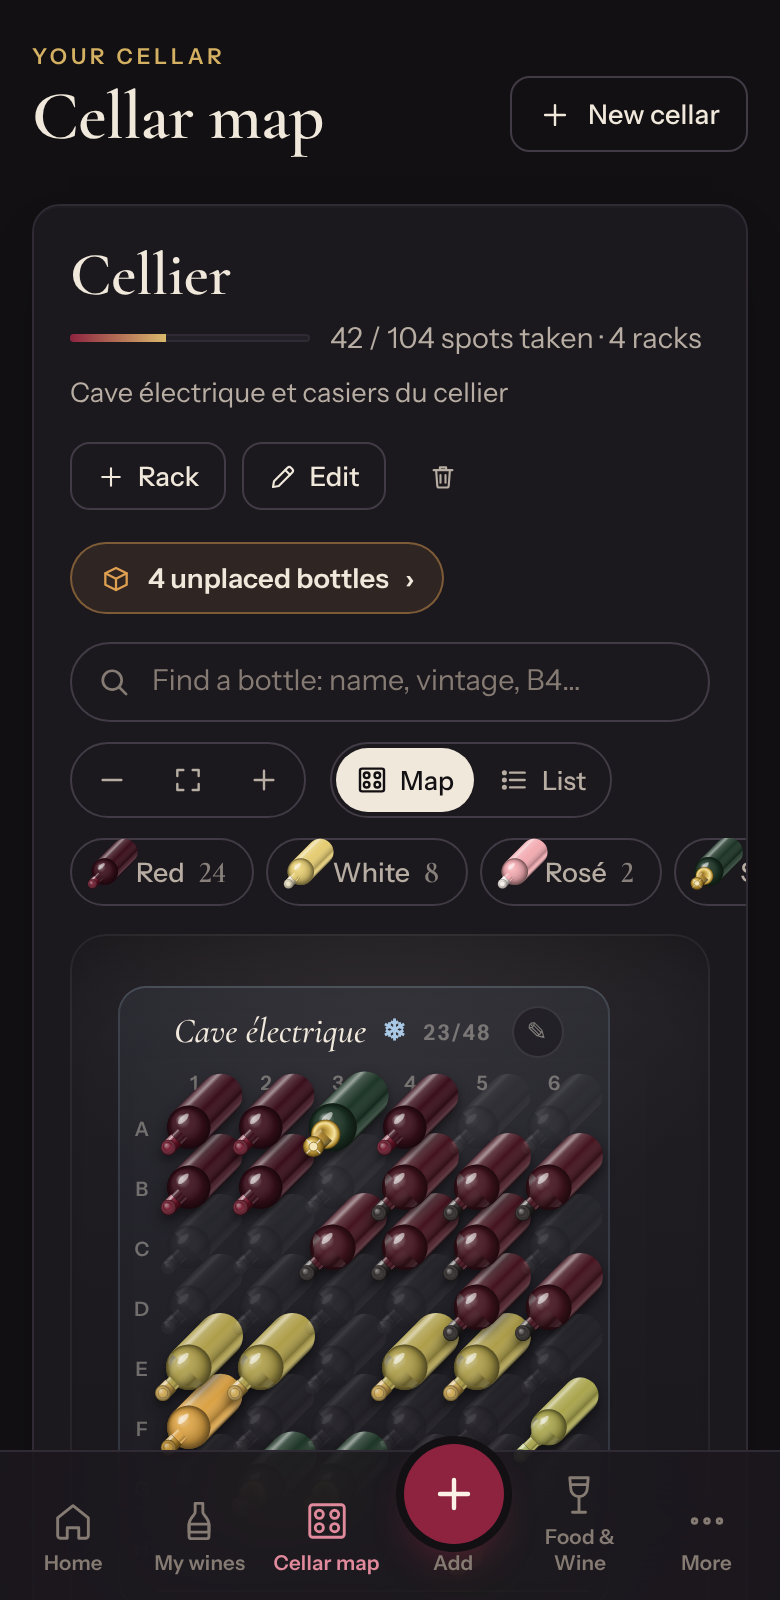
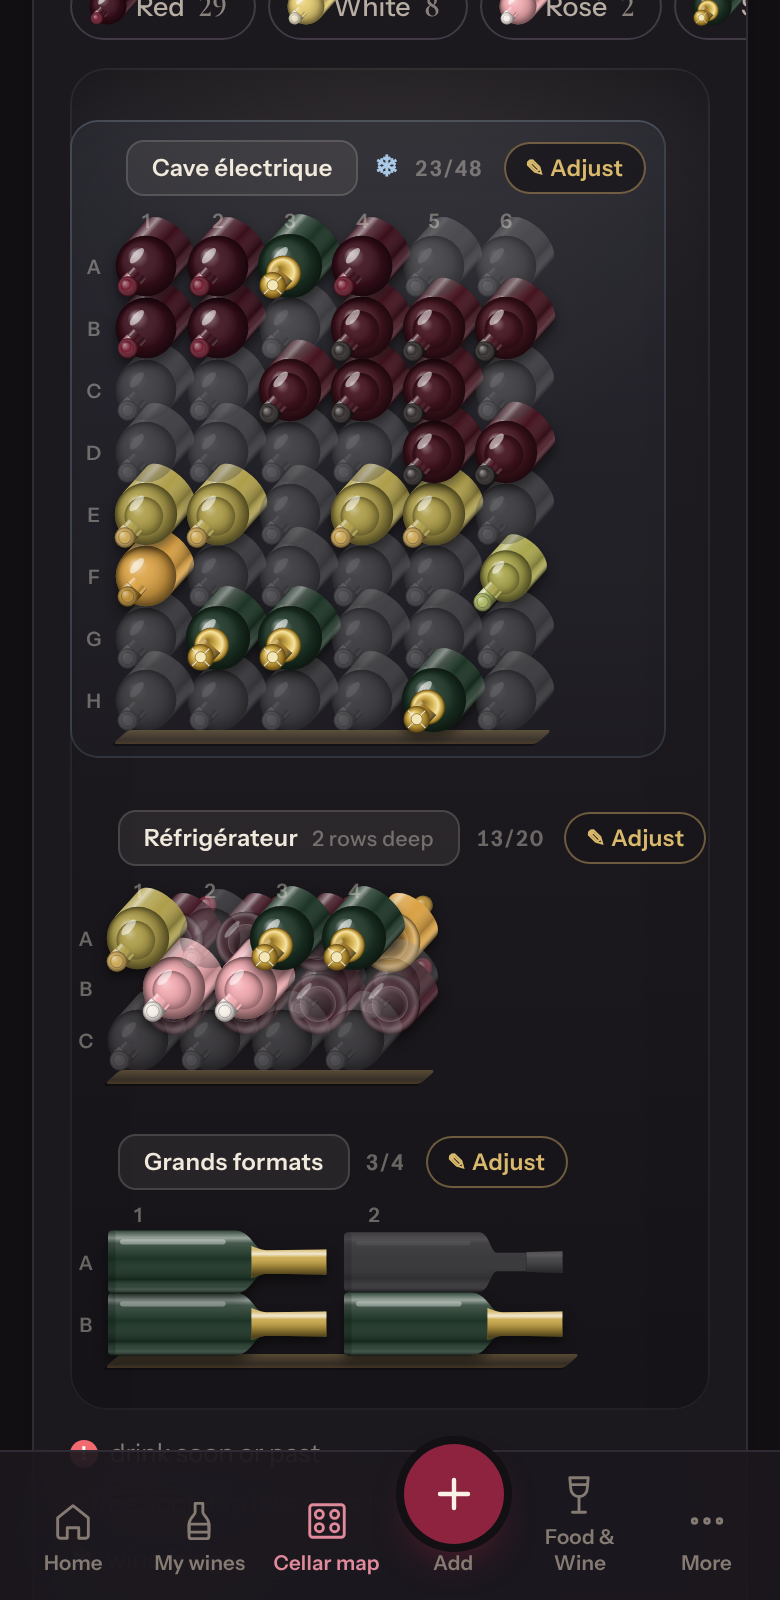
Version 1.14.3 : présentation GitHub/HACS à jour (captures, nouveautés, images visibles dans HACS)
Claude-Session: https://claude.ai/code/session_01T19GpkPTGADRHJXgFDb45S

diff --git a/cave_a_vin/app/__init__.py b/cave_a_vin/app/__init__.py
@@ -1,3 +1,3 @@
 """Cave à vin : gestion de cave compatible Home Assistant."""
 
-__version__ = "1.14.2"
+__version__ = "1.14.3"

diff --git a/README.md b/README.md
@@ -1,8 +1,8 @@
 # Tessvine 🍷
 
-*[English version](README.en.md)*
+*[English version](https://github.com/Tessman404/cave-a-vin/blob/main/README.en.md)*
 
-**➡ Nouveau ? Lisez la [notice rapide](NOTICE.md) : installé et utilisé en 5 minutes.**
+**➡ Nouveau ? Lisez la [notice rapide](https://github.com/Tessman404/cave-a-vin/blob/main/NOTICE.md) : installé et utilisé en 5 minutes.**
 
 [![Soutenir Tessvine sur Ko-fi](https://img.shields.io/badge/Soutenir%20le%20projet-Ko--fi-7a1b33?logo=ko-fi&logoColor=white)](https://ko-fi.com/tessman)
 
@@ -10,24 +10,30 @@ Un logiciel de gestion de cave à vin, dans l'esprit d'Oeni, **qui s'intègre à
 
 | Tableau de bord | Sur téléphone |
 |---|---|
-| ![Tableau de bord](docs/tableau-de-bord.png) | ![Mes vins sur mobile](docs/mobile.png) |
+| ![Tableau de bord](https://raw.githubusercontent.com/Tessman404/cave-a-vin/main/docs/tableau-de-bord.png) | ![Mes vins sur mobile](https://raw.githubusercontent.com/Tessman404/cave-a-vin/main/docs/mobile.png) |
 
 | Plan de cave | Fiche d'un vin |
 |---|---|
-| ![Plan de cave](docs/plan-de-cave.png) | ![Fiche d'un vin](docs/fiche-vin.png) |
+| ![Plan de cave](https://raw.githubusercontent.com/Tessman404/cave-a-vin/main/docs/plan-de-cave.png) | ![Fiche d'un vin](https://raw.githubusercontent.com/Tessman404/cave-a-vin/main/docs/fiche-vin.png) |
 
-| Plan sur téléphone (thème sombre) | Une bouteille du plan | Mets & Vins |
+| Vue éclatée : les rangs de derrière s'écartent | Personnalisez votre rangée | Plan sur téléphone (thème sombre) |
 |---|---|---|
-| ![Plan de cave sur téléphone](docs/plan-mobile-sombre.png) | ![Fenêtre d'une bouteille](docs/bouteille-mobile-sombre.png) | ![Mets & Vins sur téléphone](docs/ce-soir-mobile.png) |
+| ![Vue éclatée d'un casier à deux rangs](https://raw.githubusercontent.com/Tessman404/cave-a-vin/main/docs/vue-eclatee.png) | ![Réglage d'une rangée : largeur, hauteur, rang derrière, sens des bouteilles](https://raw.githubusercontent.com/Tessman404/cave-a-vin/main/docs/reglage-rangee.png) | ![Plan de cave sur téléphone](https://raw.githubusercontent.com/Tessman404/cave-a-vin/main/docs/plan-mobile-sombre.png) |
 
-*Captures réalisées avec une cave de démonstration.*
+| Une bouteille du plan | Mets & Vins |
+|---|---|
+| ![Fenêtre d'une bouteille](https://raw.githubusercontent.com/Tessman404/cave-a-vin/main/docs/bouteille-mobile-sombre.png) | ![Mets & Vins sur téléphone](https://raw.githubusercontent.com/Tessman404/cave-a-vin/main/docs/ce-soir-mobile.png) |
+
+*Captures réalisées avec une cave de démonstration (version 1.14).*
+
+**Nouveautés récentes** : vue éclatée des casiers à plusieurs rangs, **sens des bouteilles** rang par rang (goulot ou fond vers vous, alterné, allongé), bouteilles vues de face et plus serrées, « Personnalisez votre rangée » avec rangées identiques, version **anglaise** et devise réglable. Détail : [journal des modifications](https://github.com/Tessman404/cave-a-vin/blob/main/cave_a_vin/CHANGELOG.md).
 
 Ce qu'il fait :
 
 - **ajout en un geste** : **photographiez la bouteille**, puis son verso : l'**IA de Home Assistant lit l'étiquette** et remplit la fiche, le **code-barres** est lu sur le verso, et la bouteille est **détourée et posée sur un fond de cave** (cave voûtée, casier en bois, studio, pierre claire) ;
 - **inventaire complet** : cuvée, domaine, appellation, région, couleur, millésime, cépages, format, prix d'achat, valeur estimée, fournisseur, accords, notes, note personnelle datée, code-barres, photo ;
 - **bouteilles dessinées** d'après chaque vin : bordelaise, bourguignonne, flûte d'Alsace ou champagne, verre et capsule selon le vin, étiquette avec le domaine, le nom, l'appellation et le millésime ;
-- **plan de cave fidèle** : chaque casier est décrit tel qu'il est (**largeur, hauteur, empilement** aligné ou décalé quand les bouteilles se calent dans les creux, et **rangs derrière** pour les étagères profondes) ; touchez le nom d'un casier : les autres s'estompent et ses rangs s'écartent (vue éclatée), chacun sur sa tablette, pour lire chaque bouteille sans hésiter. Une cave principale et ses étagères, placées en haut, en bas, à gauche ou à droite ; bouteilles couchées vues par le goulot. Zoom, recherche (nom, millésime ou position comme « B4 »), mise en évidence par couleur ou par garde, vue en liste, **localisation** d'un vin (ses bouteilles clignotent). Toucher une bouteille pour la sortir ou la déplacer, une place vide pour y ranger une bouteille. Les **places libres d'une cave électrique** sont signalées, avec le vin à y mettre en priorité ;
+- **plan de cave fidèle** : chaque casier est décrit tel qu'il est (**largeur, hauteur, empilement** aligné ou décalé quand les bouteilles se calent dans les creux, et **rangs derrière** pour les étagères profondes), et le **sens des bouteilles** rang par rang : goulot vers vous, fond vers vous, alterné, ou allongées de côté ; touchez le nom d'un casier : les autres s'estompent et ses rangs s'écartent (vue éclatée), chacun sur sa tablette, pour lire chaque bouteille sans hésiter. Une cave principale et ses étagères, placées en haut, en bas, à gauche ou à droite ; bouteilles couchées vues par le goulot. Zoom, recherche (nom, millésime ou position comme « B4 »), mise en évidence par couleur ou par garde, vue en liste, **localisation** d'un vin (ses bouteilles clignotent). Toucher une bouteille pour la sortir ou la déplacer, une place vide pour y ranger une bouteille. Les **places libres d'une cave électrique** sont signalées, avec le vin à y mettre en priorité ;
 - **sortie par code-barres** : scannez la bouteille pour la sortir ; une sortie par erreur s'annule d'un geste ;
 - **garde** : « à boire à partir de », « apogée », « à boire avant », **estimée par l'IA de Home Assistant** (producteur, appellation, qualité du millésime, prix) et réévaluée chaque mois, ou par une règle générale sans IA. Une garde corrigée à la main est toujours respectée. Les vins à boire vite sont signalés partout ;
 - **dégustations** : chaque bouteille sortie peut recevoir une note sur 5 et un commentaire, conservés dans l'historique ;
@@ -170,7 +176,7 @@ Astuce : sur téléphone, utilisez *Ajouter à l'écran d'accueil* depuis le nav
 
 ## 4 bis. Ajouter un vin : scan, photo et IA
 
-![Ajouter un vin](docs/ajout-assiste.png)
+![Ajouter un vin](https://raw.githubusercontent.com/Tessman404/cave-a-vin/main/docs/ajout-assiste.png)
 
 Bouton **+ Ajouter**, puis **Photographier la bouteille** :
 
@@ -182,7 +188,7 @@ Bouton **+ Ajouter**, puis **Photographier la bouteille** :
 
 **Garde estimée par l'IA** : la même IA estime la fenêtre de dégustation de chaque vin en cave, au démarrage du module puis chaque mois, et chaque nouveau vin dès son ajout. La fiche indique l'origine de la garde (« estimée par l'IA », avec sa justification et sa confiance, ou « saisie à la main »). Si vous corrigez une garde, l'IA ne la touche plus et affiche seulement sa suggestion ; le bouton **Garde par l'IA** la remplace à votre demande. Statuts : *À garder* → *Prêt à boire* → *À l'apogée* (plateau) → *Après l'apogée* → *À boire vite* (dernière année) → *Garde dépassée*.
 
-**Pas à pas pour activer l'IA (Google Gemini gratuit)** : voir la [notice rapide](NOTICE.md#activer-lia-facultatif-gratuit-5-minutes).
+**Pas à pas pour activer l'IA (Google Gemini gratuit)** : voir la [notice rapide](https://github.com/Tessman404/cave-a-vin/blob/main/NOTICE.md#activer-lia-facultatif-gratuit-5-minutes).
 
 **Ce qu'il faut pour la lecture d'étiquette** : Home Assistant 2025.8 ou plus récent, avec une intégration d'IA qui fournit une entité **« AI Task »** et qui comprend les images : OpenAI, Google Gemini, Anthropic (Claude), ou Ollama avec un modèle de vision (par exemple `qwen2.5vl`). Dans la cave, **Réglages → IA, photos & étiquettes** indique si tout est prêt et permet de choisir l'IA. La photo est alors envoyée à cette IA (et donc à son fournisseur si elle est en ligne).
 

diff --git a/README.en.md b/README.en.md
@@ -1,8 +1,8 @@
 # Tessvine 🍷
 
-*[Version française](README.md)*
+*[Version française](https://github.com/Tessman404/cave-a-vin/blob/main/README.md)*
 
-**➡ New here? Read the [quick start](NOTICE.en.md): installed and running in 5 minutes.**
+**➡ New here? Read the [quick start](https://github.com/Tessman404/cave-a-vin/blob/main/NOTICE.en.md): installed and running in 5 minutes.**
 
 [![Support Tessvine on Ko-fi](https://img.shields.io/badge/Support%20the%20project-Ko--fi-7a1b33?logo=ko-fi&logoColor=white)](https://ko-fi.com/tessman)
 
@@ -12,24 +12,30 @@ The app speaks **English and French** and follows the language of your phone or 
 
 | Dashboard | On a phone |
 |---|---|
-| ![Dashboard](docs/en/dashboard.png) | ![My wines on a phone](docs/en/mobile.png) |
+| ![Dashboard](https://raw.githubusercontent.com/Tessman404/cave-a-vin/main/docs/en/dashboard.png) | ![My wines on a phone](https://raw.githubusercontent.com/Tessman404/cave-a-vin/main/docs/en/mobile.png) |
 
 | Cellar map | Wine page |
 |---|---|
-| ![Cellar map](docs/en/cellar-map.png) | ![Wine page](docs/en/wine-page.png) |
+| ![Cellar map](https://raw.githubusercontent.com/Tessman404/cave-a-vin/main/docs/en/cellar-map.png) | ![Wine page](https://raw.githubusercontent.com/Tessman404/cave-a-vin/main/docs/en/wine-page.png) |
 
-| Map on a phone (dark theme) | A bottle on the map | Food & Wine |
+| Exploded view: back rows move apart | Customize your shelf | Map on a phone (dark theme) |
 |---|---|---|
-| ![Cellar map on a phone](docs/en/map-mobile-dark.png) | ![Bottle window](docs/en/bottle-mobile-dark.png) | ![Food & Wine on a phone](docs/en/food-wine-mobile.png) |
+| ![Exploded view of a two-row rack](https://raw.githubusercontent.com/Tessman404/cave-a-vin/main/docs/en/exploded-view.png) | ![Shelf settings: width, height, row behind, bottle direction](https://raw.githubusercontent.com/Tessman404/cave-a-vin/main/docs/en/shelf-settings.png) | ![Cellar map on a phone](https://raw.githubusercontent.com/Tessman404/cave-a-vin/main/docs/en/map-mobile-dark.png) |
 
-*Screenshots taken with a demo cellar.*
+| A bottle on the map | Food & Wine |
+|---|---|
+| ![Bottle window](https://raw.githubusercontent.com/Tessman404/cave-a-vin/main/docs/en/bottle-mobile-dark.png) | ![Food & Wine on a phone](https://raw.githubusercontent.com/Tessman404/cave-a-vin/main/docs/en/food-wine-mobile.png) |
+
+*Screenshots taken with a demo cellar (version 1.14).*
+
+**What's new**: exploded view for racks with several rows, **bottle direction** per row (neck or base toward you, alternate, on the side), bottles seen from the front and closer together, “Customize your shelf” with identical shelves, **English version** and currency choice.
 
 What it does:
 
 - **add a wine in one go**: **photograph the bottle**, then its back label: **Home Assistant's AI reads the label** and fills in the form, the **barcode** is read from the back, and the bottle is **cut out and placed on a cellar background** (vaulted cellar, wooden rack, studio, light stone);
 - **full inventory**: wine name, producer, appellation, region, colour, vintage, grapes, size, purchase price, estimated value, supplier, pairings, notes, dated personal note, barcode, photo;
 - **bottles drawn from each wine**: Bordeaux, Burgundy, Alsace flute or Champagne shape, glass and capsule matching the wine, label with producer, name, appellation and vintage;
-- **an accurate cellar map**: describe each rack exactly as it is — **width, height, stacking** (aligned, or offset left / right when bottles nest in the gaps of the layer below) and **rows behind** for deep shelves. The map shows bottles lying down, seen from the neck; tap a rack's name: the others fade and its rows move apart (exploded view), each on its own shelf, so every bottle is easy to read. Zoom, search (name, vintage or position such as “B4”), highlight by colour or drinking window, list view, **locate** a wine (its bottles blink). Tap a bottle to take it out or move it, an empty spot to put a bottle there. **Free spots in a wine fridge** are reported, with the wine to put there first;
+- **an accurate cellar map**: describe each rack exactly as it is — **width, height, stacking** (aligned, or offset left / right when bottles nest in the gaps of the layer below) and **rows behind** for deep shelves, plus the **bottle direction** for each row: neck out, base out, alternate, or lying on their side. The map shows bottles lying down, seen from the neck; tap a rack's name: the others fade and its rows move apart (exploded view), each on its own shelf, so every bottle is easy to read. Zoom, search (name, vintage or position such as “B4”), highlight by colour or drinking window, list view, **locate** a wine (its bottles blink). Tap a bottle to take it out or move it, an empty spot to put a bottle there. **Free spots in a wine fridge** are reported, with the wine to put there first;
 - **take out by barcode**: scan the bottle to take it out; a mistake can be undone with one tap;
 - **drinking window**: “drink from”, “peak”, “drink by”, **estimated by Home Assistant's AI** (producer, appellation, vintage quality, price) and reviewed every month, or by a general rule without AI. A window you corrected by hand is always kept. Wines to drink soon are flagged everywhere;
 - **tastings**: every bottle taken out can get a rating out of 5 and a comment, kept in the history;
@@ -173,7 +179,7 @@ Tip: on a phone, use *Add to Home Screen* in the browser to get the cellar as an
 
 **Drinking window by AI**: the same AI estimates the drinking window of every wine in the cellar, when the add-on starts and then every month, and each new wine as soon as it's added. The wine page shows where the window comes from (“estimated by AI”, with its reasoning and confidence, or “entered by hand”). If you correct a window, the AI leaves it alone and only shows its suggestion; the **AI drinking window** button replaces it on request. Statuses: *Keep* → *Ready to drink* → *At its peak* → *Past its peak* → *Drink soon* (last year) → *Past its window*.
 
-**Step by step to turn on the AI (free Google Gemini)**: see the [quick start](NOTICE.en.md#turn-on-the-ai-optional-free-5-minutes).
+**Step by step to turn on the AI (free Google Gemini)**: see the [quick start](https://github.com/Tessman404/cave-a-vin/blob/main/NOTICE.en.md#turn-on-the-ai-optional-free-5-minutes).
 
 **What label reading needs**: Home Assistant 2025.8 or later, with an AI integration that provides an **“AI Task”** entity and understands images: OpenAI, Google Gemini, Anthropic (Claude), or Ollama with a vision model (for example `qwen2.5vl`). In Tessvine, **Settings → AI, photos & labels** tells you whether everything is ready and lets you choose the AI. The photo is then sent to that AI (and so to its provider if it's online).
 
@@ -285,7 +291,7 @@ In **Settings → Backup & import**:
 
 ## 9. Developers
 
-The code (in French) and the API are described in the [French README](README.md#8-pour-les-curieux--api-et-développement). Tests:
+The code (in French) and the API are described in the [French README](https://github.com/Tessman404/cave-a-vin/blob/main/README.md#8-pour-les-curieux--api-et-développement). Tests:
 
 ```bash
 cd cave_a_vin && python3 -m unittest discover -s tests

diff --git a/NOTICE.md b/NOTICE.md
@@ -1,10 +1,10 @@
 # Tessvine : notice rapide 🍷
 
-*[English version](NOTICE.en.md)*
+*[English version](https://github.com/Tessman404/cave-a-vin/blob/main/NOTICE.en.md)*
 
 Gérer sa cave à vin dans Home Assistant, en 5 minutes.
 
-![Tessvine](docs/tableau-de-bord.png)
+![Tessvine](https://raw.githubusercontent.com/Tessman404/cave-a-vin/main/docs/tableau-de-bord.png)
 
 ## 1. Installer (2 minutes)
 
@@ -32,7 +32,7 @@ Il faut **Home Assistant OS** (le cas de la plupart des installations : Raspberr
 Vous avez plusieurs casiers ? **+ Rangée** pour ajouter une étagère dessous ou dessus, ou une colonne à côté ; le compteur « Rangées identiques » en ajoute plusieurs d'un coup.
 Dites si c'est une **cave électrique** : Tessvine vous préviendra quand une place s'y libère.
 
-![Plan de cave](docs/plan-de-cave.png)
+![Plan de cave](https://raw.githubusercontent.com/Tessman404/cave-a-vin/main/docs/plan-de-cave.png)
 
 ## 3. Ajouter un vin (1 minute)
 
@@ -50,7 +50,7 @@ Choisissez la cave et **touchez la place** où vous rangez la bouteille sur le p
 
 | Sur téléphone | Une bouteille du plan |
 |---|---|
-| ![Mes vins](docs/mobile.png) | ![Bouteille](docs/bouteille-mobile-sombre.png) |
+| ![Mes vins](https://raw.githubusercontent.com/Tessman404/cave-a-vin/main/docs/mobile.png) | ![Bouteille](https://raw.githubusercontent.com/Tessman404/cave-a-vin/main/docs/bouteille-mobile-sombre.png) |
 
 ## Activer l'IA (facultatif, gratuit, 5 minutes)
 
@@ -73,7 +73,7 @@ Bon à savoir :
 
 - **Notifications** (Réglages) : choisissez votre téléphone pour être prévenu des vins en fin de garde.
 - **Température de la cave** (Réglages) : choisissez votre capteur, Tessvine vous alerte si elle sort de la bonne plage.
-- **Capteurs et actions dans Home Assistant** (tableaux de bord, Assist) : installez l'intégration avec HACS, voir le [guide complet](README.md#2-ajouter-lintégration-capteurs-actions-envies).
+- **Capteurs et actions dans Home Assistant** (tableaux de bord, Assist) : installez l'intégration avec HACS, voir le [guide complet](https://github.com/Tessman404/cave-a-vin/blob/main/README.md#2-ajouter-lintégration-capteurs-actions-envies).
 
 Vos données restent **chez vous**, dans Home Assistant, et sont incluses dans ses sauvegardes.
 

diff --git a/NOTICE.en.md b/NOTICE.en.md
@@ -1,10 +1,10 @@
 # Tessvine: quick start 🍷
 
-*[Version française](NOTICE.md)*
+*[Version française](https://github.com/Tessman404/cave-a-vin/blob/main/NOTICE.md)*
 
 Manage your wine cellar in Home Assistant, in 5 minutes. The app is in English or French, following your phone or browser (you can change it in **Settings → Display**, along with the currency).
 
-![Tessvine](docs/en/dashboard.png)
+![Tessvine](https://raw.githubusercontent.com/Tessman404/cave-a-vin/main/docs/en/dashboard.png)
 
 ## 1. Install (2 minutes)
 
@@ -32,7 +32,7 @@ You need **Home Assistant OS** (most installations: Raspberry Pi, Home Assistant
 Several racks? **+ Shelf** adds a shelf below or above, or a column next to it; the “Identical shelves” counter adds several at once.
 Tell Tessvine if it's a **wine fridge**: it will let you know when a spot frees up.
 
-![Cellar map](docs/en/cellar-map.png)
+![Cellar map](https://raw.githubusercontent.com/Tessman404/cave-a-vin/main/docs/en/cellar-map.png)
 
 ## 3. Add a wine (1 minute)
 
@@ -50,7 +50,7 @@ Choose the cellar and **tap the spot** where you put the bottle on the map. That
 
 | On a phone | A bottle on the map |
 |---|---|
-| ![My wines](docs/en/mobile.png) | ![Bottle](docs/en/bottle-mobile-dark.png) |
+| ![My wines](https://raw.githubusercontent.com/Tessman404/cave-a-vin/main/docs/en/mobile.png) | ![Bottle](https://raw.githubusercontent.com/Tessman404/cave-a-vin/main/docs/en/bottle-mobile-dark.png) |
 
 ## Turn on the AI (optional, free, 5 minutes)
 
@@ -74,7 +74,7 @@ Good to know:
 
 - **Notifications** (Settings): choose your phone to be told about wines reaching the end of their window.
 - **Cellar temperature** (Settings): choose your sensor, Tessvine warns you if it leaves the right range.
-- **Sensors and actions in Home Assistant** (dashboards, Assist): install the integration with HACS, see the [full guide](README.en.md#2-add-the-integration-sensors-actions-wishlist).
+- **Sensors and actions in Home Assistant** (dashboards, Assist): install the integration with HACS, see the [full guide](https://github.com/Tessman404/cave-a-vin/blob/main/README.en.md#2-add-the-integration-sensors-actions-wishlist).
 
 Your data stays **at home**, in Home Assistant, and is included in its backups.
 

diff --git a/cave_a_vin/CHANGELOG.md b/cave_a_vin/CHANGELOG.md
@@ -1,5 +1,10 @@
 # Journal des modifications
 
+## 1.14.3
+
+- Présentation mise à jour (GitHub et HACS) : nouvelles captures (vue éclatée, réglage d'une rangée, bouteilles
+  redessinées), nouveautés récentes, images visibles aussi dans HACS. Version anglaise de la présentation à jour.
+
 ## 1.14.2
 
 - Correction : le module **ne plantait plus au démarrage** sur un processeur sans instructions SSE4.2 (x86-64-v2),
